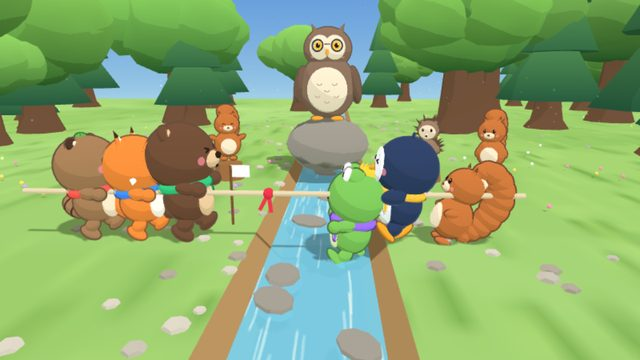
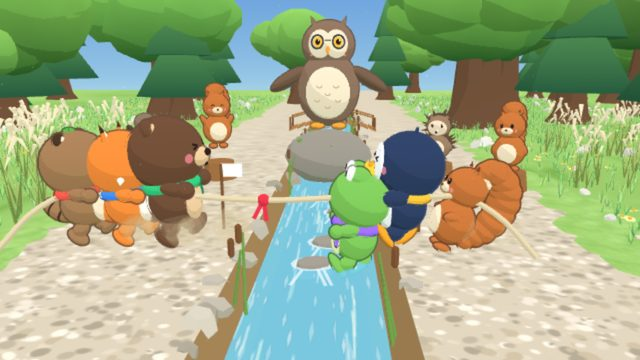
川原の つなひき: 決着の盛り上げ
勝ちの 線に 近づくと 太鼓の 連打と メーターの ふるえ、「あと すこし!」/「ふんばれ!」。のこり 5秒の カウントダウン。
決着は スローモーションで 小川へ 寄り、負けた チームが じゅんに ぴょんと ざぶん(大しぶき・水の わ・画面ゆれ)。
そのあと 引いて、勝った チームが じゅんばんに とびはねる。サムネイルと 仕様を 更新。

Claude-Session: https://claude.ai/code/session_01Cisc6eBGskeR7WZHkdup4y

diff --git a/src/games/tsuna/game.js b/src/games/tsuna/game.js
@@ -83,6 +83,9 @@ export async function createTsuna({ renderer, settings, getAudio, onExit }) {
     miss() { voice({ type: 'square', pts: [[0, 220]], len: 0.06, gain: 0.03 }); },
     sync() { [0, 0.06].forEach((at, i) => voice({ type: 'triangle', pts: [[0, 660 + i * 220], [0.08, 880 + i * 220]], len: 0.14, gain: 0.07, at })); },
     hoot() { voice({ pts: [[0, 420], [0.12, 380]], len: 0.18, gain: 0.08 }); voice({ pts: [[0, 420], [0.12, 360]], len: 0.22, gain: 0.08, at: 0.22 }); },
+    plop() { noise({ len: 0.4, gain: 0.14, freq: [1200, 300], type: 'lowpass', attack: 0.005 }); },
+    tick(n) { voice({ type: 'square', pts: [[0, n <= 1 ? 1046 : 784]], len: 0.09, gain: 0.05 }); },
+    roll() { voice({ type: 'triangle', pts: [[0, 130 + Math.random() * 20], [0.06, 70]], len: 0.08, gain: 0.09 }); },
     slip() { voice({ pts: [[0, 900], [0.25, 300]], len: 0.3, gain: 0.08 }); },
     save() { voice({ type: 'triangle', pts: [[0, 440], [0.1, 660]], len: 0.15, gain: 0.08 }); },
     fall() { noise({ len: 0.25, gain: 0.12, freq: [600, 150], type: 'lowpass' }); },
@@ -196,6 +199,16 @@ export async function createTsuna({ renderer, settings, getAudio, onExit }) {
     scene.add(m);
     fx.push({ obj: m, t: 0, life: 2.6, vel: new THREE.Vector3(), kind: 'puddle' });
   }
+  // 水の わ(ざぶんの あとに ひろがる)
+  const rippleGeo = new THREE.RingGeometry(0.85, 1, 28).rotateX(-Math.PI / 2);
+  function ripple(x, z, size = 1) {
+    for (let i = 0; i < 3; i++) {
+      const m = new THREE.Mesh(rippleGeo, new THREE.MeshBasicMaterial({ color: 0xffffff, transparent: true, opacity: 0.8, depthWrite: false }));
+      m.position.set(x, WATER_Y + 0.02, z);
+      scene.add(m);
+      fx.push({ obj: m, t: -i * 0.25, life: 1.4, vel: new THREE.Vector3(), kind: 'ripple', size });
+    }
+  }
   const puffGeo = new THREE.IcosahedronGeometry(0.12, 1);
   function puff(x, y, z, n = 3, color = 0xd8c8a0) {
     for (let i = 0; i < n; i++) {
@@ -228,6 +241,11 @@ export async function createTsuna({ renderer, settings, getAudio, onExit }) {
         f.obj.position.addScaledVector(f.vel, dt);
         f.obj.scale.setScalar(1 + k * 1.5);
         f.obj.material.opacity = 0.8 * (1 - k);
+      } else if (f.kind === 'ripple') {
+        const r = 0.2 + Math.max(0, k) * f.size;
+        f.obj.scale.set(r, 1, r * 0.8);
+        f.obj.visible = f.t > 0;
+        f.obj.material.opacity = 0.8 * (1 - Math.max(0, k));
       } else if (f.kind === 'puddle') {
         f.obj.scale.set(0.6 + Math.min(1, f.t * 6) * 0.6, 1, 0.45 + Math.min(1, f.t * 6) * 0.4);
         f.obj.material.opacity = 0.85 * Math.min(1, (1 - k) * 2.5);
@@ -285,7 +303,7 @@ export async function createTsuna({ renderer, settings, getAudio, onExit }) {
     marker.rotation.x = Math.PI;
     me.holder.add(marker);
     me.marker = marker;
-    game = { seed, players, state, cpus: players.map((p, slot) => (p.cpu ? createCpu(p.cpu, seed, slot) : null)), units, acc: 0, endTimer: null, shake: 0, sync: { L: { beat: -1, n: 0 }, R: { beat: -1, n: 0 } }, warned: -1 };
+    game = { seed, players, state, cpus: players.map((p, slot) => (p.cpu ? createCpu(p.cpu, seed, slot) : null)), units, acc: 0, endTimer: null, shake: 0, sync: { L: { beat: -1, n: 0 }, R: { beat: -1, n: 0 } }, warned: -1, count: null, roll: 0, edgeSide: null, slow: 0 };
     atmosphere.apply(params.get('time') || state.timeOfDay);
     atmosphere.setupShadows(units.map((u) => u.holder), []);
     pressed = false;
@@ -461,7 +479,9 @@ export async function createTsuna({ renderer, settings, getAudio, onExit }) {
           break;
         }
         case 'finished': {
-          game.endTimer = 4.0;
+          game.endTimer = 5.0;
+          game.slow = 1.4; // 決着の しゅんかんは ゆっくり
+          $('meterN').classList.remove('edge');
           const lose = e.winner === 'L' ? 'R' : 'L';
           for (const u of game.units) if (u.side === lose) u.fall = { t: 0, delay: u.k * 0.18 };
           const mine = s.runners[0].side === e.winner;
@@ -515,18 +535,33 @@ export async function createTsuna({ renderer, settings, getAudio, onExit }) {
       if (u.slip) { lean = -0.25 + Math.sin(time * 30) * 0.1; face = 'surprised'; clip = 'idle'; x -= dir * 0.12; }
       if (u.downT > 0) { lean = 0.9; clip = 'dizzy'; face = 'frustrated'; }
       if (s.phase === 'finished') {
-        if (u.side === s.winner) { clip = 'cheer'; face = 'happy'; lean = 0; }
+        if (u.side === s.winner) {
+          // 勝った チームは じゅんばんに とびはねる
+          clip = 'cheer'; face = 'happy'; lean = 0;
+          y = Math.abs(Math.sin(time * 7 + u.k * 1.1)) * 0.35 + 0.001;
+        }
         else if (u.fall) {
           // 小川へ ずるずる → ざぶん
+          // 前の子から じゅんに、ひっぱられて 岸を すべり、ぴょんと 小川へ
           const f = u.fall;
           f.t += dt;
           const k = Math.max(0, f.t - f.delay);
-          x -= dir * Math.min(1, k * 1.2) * (Math.abs(x) - 0.2);
-          if (Math.abs(x) < STREAM_W + 0.1) {
-            y = WATER_Y - 0.35;
-            if (!f.splashed) { f.splashed = true; splashAt(x, 0, 0.8); sfx.splash(); }
+          const endX = dir * (0.1 + u.k * 0.22);
+          const m = Math.min(1, k * 0.9);
+          x = x + (endX - x) * m * m;
+          z = (u.k - 1) * 0.55 * m;
+          if (m > 0.55 && m < 1) y = Math.sin(((m - 0.55) / 0.45) * Math.PI) * 0.45 + 0.001;
+          if (m >= 1) {
+            y = WATER_Y - 0.38 + Math.sin(time * 3 + u.k) * 0.04;
+            if (!f.splashed) {
+              f.splashed = true;
+              const big = u.k === 0;
+              splashAt(x, z, big ? 1.8 : 0.9);
+              ripple(x, z, big ? 1.6 : 1);
+              if (big) { game.shake = 0.35; sfx.splash(); } else sfx.plop();
+            }
           }
-          clip = 'dizzy'; face = 'surprised'; lean = -0.4;
+          clip = 'dizzy'; face = 'surprised'; lean = m >= 1 ? 0.1 : -0.4;
         }
       }
       u.holder.position.set(x, y || Math.max(WATER_Y - 0.2, groundY(x)), z);
@@ -560,7 +595,7 @@ export async function createTsuna({ renderer, settings, getAudio, onExit }) {
     rope.position.set(s.p, ROPE_Y, 0.12);
     ribbon.position.set(s.p, ROPE_Y - ropeSag - Math.sin(time * 6) * 0.02 * (1 - tension), 0.12);
     ribbon.rotation.z = Math.sin(time * 6) * 0.2;
-    rope.visible = s.phase !== 'finished' || game.endTimer > 3.5;
+    rope.visible = s.phase !== 'finished' || game.endTimer > 4.0;
   }
 
   let freeCamera = false;
@@ -585,8 +620,26 @@ export async function createTsuna({ renderer, settings, getAudio, onExit }) {
       camera.lookAt(camera.userData.look);
       return;
     }
-    const k = snap ? 1 : 1 - Math.exp(-dt * 4);
+    if (s?.phase === 'finished') {
+      // 決着: はじめは 負けた チームが 落ちる 小川へ 寄り、そのあと 引いて 勝った チームの よろこびを 見せる
+      const wd = s.winner === 'L' ? -1 : 1;
+      if (game.endTimer > 3.3) {
+        pos.set(-wd * 0.2, portrait ? 2.8 : 1.9, portrait ? 9.2 : 5.6);
+        look.set(-wd * 0.2, 0.5, 0);
+      } else {
+        const wx = wd * (FRONT + GAP) + s.p;
+        const lx = wx * (portrait ? 0.75 : 0.5);
+        pos.set(lx, portrait ? 3.6 : 2.3, portrait ? 11 : 6.6);
+        look.set(lx, 0.9, -0.4);
+      }
+    }
+    const k = snap ? 1 : 1 - Math.exp(-dt * (s?.phase === 'finished' ? 2.2 : 4));
     camera.position.lerp(pos, k);
+    if (game?.shake > 0) {
+      game.shake = Math.max(0, game.shake - dt);
+      camera.position.x += (Math.random() - 0.5) * game.shake * 0.5;
+      camera.position.y += (Math.random() - 0.5) * game.shake * 0.5;
+    }
     camera.userData.look = camera.userData.look ? camera.userData.look.lerp(look, k) : look.clone();
     camera.lookAt(camera.userData.look);
   }
@@ -635,6 +688,23 @@ export async function createTsuna({ renderer, settings, getAudio, onExit }) {
         onEvents(step(s, inputs));
         game.acc -= STEP;
       }
+      if (s.phase === 'play' && s.t > RULES.readyTime + 6) $('howtoN').classList.remove('show');
+      // のこり 5秒の カウントダウン
+      const sec = Math.ceil(timeLeft(s));
+      if (s.phase === 'play' && sec <= 5 && sec >= 1 && game.count !== sec) { game.count = sec; splash(String(sec), 'count'); sfx.tick(sec); }
+      // あと すこしで 決まりそう: 太鼓の 連打と メーターが ふるえる
+      const edge = s.phase === 'play' ? Math.abs(s.p) / RULES.win : 0;
+      $('meterN').classList.toggle('edge', edge > 0.72);
+      if (edge > 0.72) {
+        game.roll -= dt;
+        if (game.roll <= 0) { sfx.roll(); game.roll = 0.09; }
+        const near = s.p > 0 ? 'R' : 'L'; // 目じるしが 来ている がわ = 負けそうな チーム
+        if (game.edgeSide !== near) {
+          game.edgeSide = near;
+          const mine = s.runners[0].side;
+          splash(near === mine ? 'ふんばれ!' : 'あと すこし!', near === mine ? 'red small' : 'gold small');
+        }
+      } else if (edge < 0.5) game.edgeSide = null;
       // 先生の 予告: つぎの 拍から リズムが かわるとき、1拍 まえに 羽を あげて 知らせる
       const cur = s.beats[s.nextBeat], nx = s.beats[s.nextBeat + 1];
       if (s.phase === 'play' && cur && nx && nx.kind !== cur.kind && game.warned !== s.nextBeat + 1) {
@@ -655,8 +725,11 @@ export async function createTsuna({ renderer, settings, getAudio, onExit }) {
     }
     if (game && mode === 'playing') renderHud();
     if (game && !paused) {
-      updateUnits(dt);
-      updateFx(dt);
+      // 決着の しゅんかんは スローモーション
+      let vdt = dt;
+      if (game.slow > 0) { game.slow -= dt; vdt = dt * (game.slow > 0.3 ? 0.3 : 0.65); }
+      updateUnits(vdt);
+      updateFx(vdt);
     }
     if (!paused) {
       audience.forEach((a, n) => {

diff --git a/index.html b/index.html
@@ -385,6 +385,11 @@
   .call.show { animation: call .45s ease-out forwards; }
   @keyframes call { 0% { opacity: 1; transform: scale(1.25); } 60% { opacity: 1; transform: scale(1); } 100% { opacity: 0; transform: scale(1); } }
   #hudN .splash.small { font-size: clamp(26px, 8.5vw, 50px); white-space: pre-line; line-height: 1.15; }
+  #hudN .splash.count { font-size: clamp(70px, 24vw, 130px); color: #ffd24a; top: 26%; }
+  #hudN .splash.gold.small { color: #ffd24a; }
+  .tug.edge { animation: tugshake .12s infinite; }
+  .tug.edge i { box-shadow: 0 0 0 4px rgba(255,210,74,.8), 0 2px 3px rgba(0,0,0,.3); }
+  @keyframes tugshake { 50% { translate: 1.5px 1px; } }
   .pop.sync { color: #ffd24a; font-size: 30px; -webkit-text-stroke: 6px #6a3a10; }
   .pop.sync.them { color: #fff; font-size: 20px; -webkit-text-stroke: 5px var(--hud-ink); }
   .pop.owl {

diff --git a/sw.js b/sw.js
@@ -10,7 +10,7 @@
 // 版はファイルの中身から作るので、1つでも変われば sw.js が変わり、ブラウザが入れなおす。
 
 // <precache>
-const VERSION = 'b78bf327482a';
+const VERSION = 'a926114faa13';
 const PRECACHE = [
   "./",
   "./assets/thumbs/catch.jpg",

diff --git a/docs/minigames/tsuna.md b/docs/minigames/tsuna.md
@@ -25,11 +25,18 @@
 
 ## 画面(`src/games/tsuna/game.js`, `stage.js`)
 
-- 会場: 手前から奥へ ながれる 小川(平たい石・水面が 流れる)と、左右の 草の川原(小石・草花)。まわりは 森。
-  奥の 岩の上に ホーホー先生(合図で はばたく)。観客は 左右うしろの 切り株の上。
-- つなの まん中に 赤い 目じるし。勝ちの 線に 白い旗。みんな 小川のほうを 向いて のけぞって 引く。
-- すべったら のけぞって ばたばた、まにあわないと ころぶ。
-- 決着: 負けた チームは 小川へ ずるずる → ざぶん(しぶき)。勝った チームは こちらを 向いて よろこぶ。紙ふぶき。
-- カメラ: 横から。つなの 目じるしを 追って 左右に ずれる。
+- 会場: 手前から奥へ ながれる 小川(平たい石の まわりに 白い あわ・水面の きらめきが 流れる)。
+  水ぎわは 小石の 川原(つなひきの 足場)で、その外に 草むら・花・ススキ(風で ゆれる)、水ぎわに ガマ。
+  上流に 小さな 木の橋、まわりは 森。小川の まん中の こけの 大岩に ホーホー先生。観客は 左右うしろの 切り株の上。
+- つな: ゆるむと まん中が たれて ゆれ、引いた 直後は ぴんと 張る。うしろの はしは 地面へ たれる。まん中に 赤い 目じるし、勝ちの 線に 白い旗。
+- 引く: みんな 小川のほうを 向いて のけぞって 引く。ぴったりで ぐいっと 大きく。
+  同じ ビートで チームの 2人以上が ぴったりなら「そろった!」(チームみんなで ぐいっ・土けむり)。
+- せーのの ふいうち: リズムが かわる 1拍 まえに、先生が 羽を あげて ふきだしで 予告(「はやく なるぞ!」など)。
+- すべる どろ: どろが はねて 足もとに 水たまり。片手で つなに しがみついて、もう片手を ばたばた。まにあわないと ころぶ。
+- うしろから 応援: 負けている がわの 観客は 切り株の上で とびはねて「がんばれー!」。
+- 盛り上げ: 目じるしが 勝ちの 線に 近づくと 太鼓の 連打と メーターの ふるえ、「あと すこし!」/「ふんばれ!」。のこり 5秒は カウントダウン。
+- 決着: スローモーションで 小川へ 寄る。負けた チームは 前の子から じゅんに 岸を すべって ぴょんと ざぶん(大きな しぶき・水の わ・画面が ゆれる)。
+  そのあと 引いて、勝った チームが こちらを 向いて じゅんばんに とびはねる。紙ふぶき。
+- カメラ: 横から。つなの 目じるしを 追い、自分の チームの ほうへ 少し 寄せる。
 - HUD: 上に 左右の チームの札(自分の チームは 白)と のこり時間、その下に つなの 目じるしの メーター、
   負けている チームに「おうえん!」。下に リズムの 輪(ちぢんで 重なったら タップ)と「よいしょ!」。
